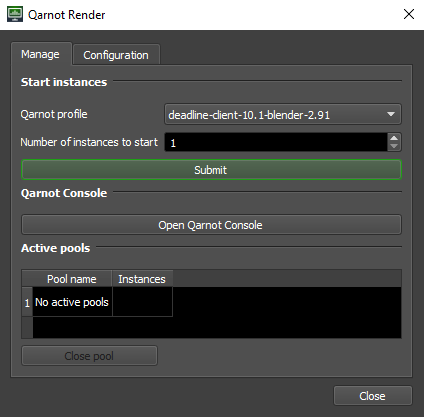
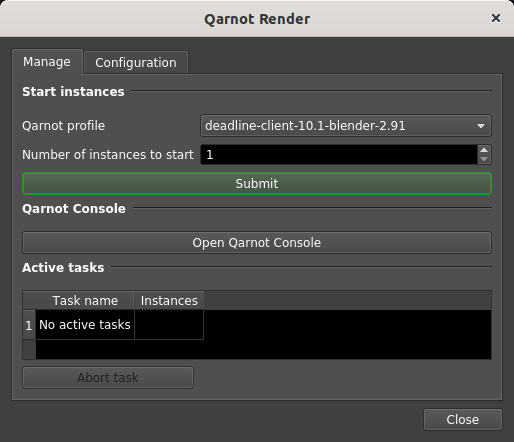
Use tasks instead of pools
This allows to use a static path for the folder used for the job's data
(`/job` by default). Before, the data was present in a subfolder of
`/job` (and its name was changing between pools).

Ref IT-3477

diff --git a/custom/scripts/General/QarnotRender.py b/custom/scripts/General/QarnotRender.py
@@ -93,41 +93,41 @@ def __main__():
     console_button.ValueModified.connect(console_button_pressed)
 
     script_dialog.AddControlToGrid(
-        "PoolsSeparator",
+        "TasksSeparator",
         "SeparatorControl",
-        "Active pools",
+        "Active tasks",
         6,
         0,
         colSpan=2,
     )
 
-    pool_model = PoolModel()
+    task_model = TaskModel()
 
-    pool_view = QtWidgets.QTableView()
-    pool_view.setObjectName("PoolView")
-    pool_view.setModel(pool_model)
+    task_view = QtWidgets.QTableView()
+    task_view.setObjectName("TaskView")
+    task_view.setModel(task_model)
     # hide the UUID column (but the data needs to stay to launch actions against
-    # the selected pools)
-    pool_view.setColumnHidden(2, True)
+    # the selected tasks)
+    task_view.setColumnHidden(2, True)
     # auto adjust column width based on content
-    pool_view.setSizeAdjustPolicy(QtWidgets.QAbstractScrollArea.AdjustToContents)
-    pool_view.resizeColumnsToContents()
+    task_view.setSizeAdjustPolicy(QtWidgets.QAbstractScrollArea.AdjustToContents)
+    task_view.resizeColumnsToContents()
     # automatically resize columns when the model changes
-    pool_model.layoutChanged.connect(pool_view.resizeColumnsToContents)
+    task_model.layoutChanged.connect(task_view.resizeColumnsToContents)
     # select row with one click
-    pool_view.setSelectionBehavior(QtWidgets.QTableView.SelectRows)
-    # automatically enable/disable the pool close button
-    pool_model.layoutChanged.connect(update_pool_close_button)
+    task_view.setSelectionBehavior(QtWidgets.QTableView.SelectRows)
+    # automatically enable/disable the task abort button
+    task_model.layoutChanged.connect(update_task_abort_button)
 
-    grid.addWidget(pool_view, 7, 0, 1, 2)
+    grid.addWidget(task_view, 7, 0, 1, 2)
 
-    pool_close_button = script_dialog.AddControlToGrid(
-        "PoolCloseButton", "ButtonControl", "Close pool", 8, 0, colSpan=1
+    task_abort_button = script_dialog.AddControlToGrid(
+        "TaskAbortButton", "ButtonControl", "Abort task", 8, 0, colSpan=1
     )
-    # disable the close button by default
-    # it will be enabled when the pool table is populated
-    script_dialog.SetEnabled("PoolCloseButton", False)
-    pool_close_button.ValueModified.connect(pool_close_button_pressed)
+    # disable the abort button by default
+    # it will be enabled when the task table is populated
+    script_dialog.SetEnabled("TaskAbortButton", False)
+    task_abort_button.ValueModified.connect(task_abort_button_pressed)
 
     script_dialog.EndGrid()
     script_dialog.EndTabPage()
@@ -195,7 +195,7 @@ def __main__():
     )
 
     refresh_qarnot_profiles_combo()
-    refresh_qarnot_pools()
+    refresh_qarnot_tasks()
 
     script_dialog.ShowDialog(True)
 
@@ -299,40 +299,40 @@ def display_invalid_conf():
     )
 
 
-def refresh_qarnot_pools():
-    # fetch pools in a worker thread
-    worker = Worker(fetch_qarnot_pools)
-    worker.signals.result.connect(update_pool_view)
+def refresh_qarnot_tasks():
+    # fetch tasks in a worker thread
+    worker = Worker(fetch_qarnot_tasks)
+    worker.signals.result.connect(update_task_view)
     QThreadPool.globalInstance().start(worker)
 
 
-def fetch_qarnot_pools():
+def fetch_qarnot_tasks():
 
     # display loading message
-    pool_view = script_dialog.findChild(
+    task_view = script_dialog.findChild(
         QtWidgets.QTableView,
-        "PoolView",
+        "TaskView",
     )
-    pool_model = pool_view.model()
-    pool_model.display_loading_message()
+    task_model = task_view.model()
+    task_model.display_loading_message()
 
-    # fetch active pools
+    # fetch active tasks
     q_render_deadline.refresh_connection()
-    active_pools = q_render_deadline.get_active_pools()
+    active_tasks = q_render_deadline.get_active_tasks()
 
-    return active_pools
+    return active_tasks
 
 
-def update_pool_view(active_pools):
+def update_task_view(active_tasks):
     global script_dialog
 
-    pool_view = script_dialog.findChild(
+    task_view = script_dialog.findChild(
         QtWidgets.QTableView,
-        "PoolView",
+        "TaskView",
     )
-    pool_model = pool_view.model()
+    task_model = task_view.model()
 
-    pool_model.pools = active_pools
+    task_model.tasks = active_tasks
 
 
 def submit_button_pressed(*args):
@@ -343,10 +343,10 @@ def submit_button_pressed(*args):
     instance_number = script_dialog.GetValue("QarnotInstancesNumberBox")
     q_render_deadline.create_instances(profile, instance_number)
     script_dialog.ShowMessageBox(
-        "Pool submitted, open the Qarnot Console for more information",
+        "Task submitted, open the Qarnot Console for more information",
         "Submit confirmation",
     )
-    refresh_qarnot_pools()
+    refresh_qarnot_tasks()
 
 
 def console_button_pressed(*args):
@@ -356,39 +356,39 @@ def console_button_pressed(*args):
     script_dialog.OpenUrl(url)
 
 
-def update_pool_close_button(*args):
+def update_task_abort_button(*args):
     global script_dialog
 
-    pool_view = script_dialog.findChild(
+    task_view = script_dialog.findChild(
         QtWidgets.QTableView,
-        "PoolView",
+        "TaskView",
     )
-    pool_model = pool_view.model()
+    task_model = task_view.model()
 
-    # check pool uuid value of first line
-    pool_uuid = pool_model.data(pool_model.index(0, 2), Qt.DisplayRole)
+    # check task uuid value of first line
+    task_uuid = task_model.data(task_model.index(0, 2), Qt.DisplayRole)
 
-    if pool_uuid:
-        script_dialog.SetEnabled("PoolCloseButton", True)
+    if task_uuid:
+        script_dialog.SetEnabled("TaskAbortButton", True)
     else:
-        script_dialog.SetEnabled("PoolCloseButton", False)
+        script_dialog.SetEnabled("TaskAbortButton", False)
 
 
-def pool_close_button_pressed(*args):
+def task_abort_button_pressed(*args):
     global script_dialog
     global q_render_deadline
 
-    pool_view = script_dialog.findChild(
+    task_view = script_dialog.findChild(
         QtWidgets.QTableView,
-        "PoolView",
+        "TaskView",
     )
-    indexes = pool_view.selectionModel().selectedRows()
+    indexes = task_view.selectionModel().selectedRows()
 
     for index in indexes:
-        pool_uuid = index.child(index.row(), 2).data()
-        q_render_deadline.stop_instances(pool_uuid)
+        task_uuid = index.child(index.row(), 2).data()
+        q_render_deadline.stop_instances(task_uuid)
 
-    refresh_qarnot_pools()
+    refresh_qarnot_tasks()
 
 
 def update_qarnot_account_url(*args):
@@ -486,36 +486,36 @@ class Worker(QRunnable):
             self.signals.finished.emit()  # Done
 
 
-class PoolModel(QtCore.QAbstractTableModel):
-    def __init__(self, pools=None):
+class TaskModel(QtCore.QAbstractTableModel):
+    def __init__(self, tasks=None):
         super(QtCore.QAbstractTableModel, self).__init__()
-        self._pools = pools
+        self._tasks = tasks
         self._data = []
-        self._columns = ["Pool name", "Instances", "UUID"]
+        self._columns = ["Task name", "Instances", "UUID"]
 
         self._set_table_data()
 
     def _set_table_data(self):
-        if self._pools:
-            self._data = [(x.name, x.instancecount, x.uuid) for x in self._pools]
+        if self._tasks:
+            self._data = [(x.name, x.instancecount, x.uuid) for x in self._tasks]
         else:
-            self._data = [["No active pools", None, None]]
+            self._data = [["No active tasks", None, None]]
         self.layoutChanged.emit()
 
     @property
-    def pools(self):
+    def tasks(self):
         """
-        Returns the pools list.
+        Returns the tasks list.
 
         Returns:
-            pools: list of pool objects
+            tasks: list of task objects
         """
-        return self._pools
+        return self._tasks
 
-    @pools.setter
-    def pools(self, value):
-        """Setter for pools"""
-        self._pools = value
+    @tasks.setter
+    def tasks(self, value):
+        """Setter for tasks"""
+        self._tasks = value
         self._set_table_data()
 
     def data(self, index, role):
@@ -552,5 +552,5 @@ class PoolModel(QtCore.QAbstractTableModel):
                 return section + 1
 
     def display_loading_message(self):
-        self._data = [["Loading pools...", None, None]]
+        self._data = [["Loading tasks...", None, None]]
         self.layoutChanged.emit()

diff --git a/qarnot_render_deadline.py b/qarnot_render_deadline.py
@@ -112,34 +112,6 @@ class QarnotRenderDeadline:
         )
         return active_tasks
 
-    def get_active_pools(self):
-        """
-        Get active pools.
-
-        Returns:
-            active_pools: list of pool objects that are currently active
-        """
-
-        active_pools = []
-        self.refresh_connection()
-
-        pools = self.conn.pools(summary=True)
-        excluded_states = ["Closed", "Closing", "PendingDelete", "Failure"]
-
-        for pool in pools:
-            # add only active pools dedicated to deadline
-            logging.debug('Evaluating pool "{}": {}'.format(pool.name, pool.state))
-            if (
-                all(x not in pool.state for x in excluded_states)
-                and self.deadline_prefix in pool.name
-            ):
-                active_pools.append(pool)
-
-        logging.debug(
-            'Active pools: "{}"'.format([(x.name, x.uuid) for x in active_pools])
-        )
-        return active_pools
-
     def create_instances(
         self,
         profile,
@@ -173,14 +145,9 @@ class QarnotRenderDeadline:
             return rand
 
         suffix = random_suffix(r)
-        pool_name = profile + suffix
-        pool = self.conn.create_pool(
-            name=pool_name, profile=profile, instancecount=count
-        )
-        pool.submit()
 
-        task_name = profile + suffix + "-task"
-        task = self.conn.create_task(task_name, pool, count)
+        task_name = profile + suffix
+        task = self.conn.create_task(task_name, profile, count)
         bucketOut = self.conn.create_bucket(self.results_bucket)
         bucketIn = []
         for new_bucket in self.resources_bucket:
@@ -210,28 +177,28 @@ class QarnotRenderDeadline:
 
         return self.started_tasks
 
-    def stop_instances(self, pool_uuid=None):
+    def stop_instances(self, task_uuid=None):
         """
-        Stop instances for all active pools or one specific pool
+        Stop instances for all active tasks or one specific task
 
         Args:
-            pool: optional UUID of a specific pool to close
+            task: optional UUID of a specific task to abort
         """
 
         self.refresh_connection()
 
-        if pool_uuid is None:
-            active_pools = self.get_active_pools()
+        if task_uuid is None:
+            active_tasks = self.get_active_tasks()
 
-            for active_pool in active_pools:
+            for active_task in active_tasks:
                 try:
-                    pool_uuid = self.conn.retrieve_pool(active_pool.uuid)
-                    pool_uuid.close()
+                    task = self.conn.retrieve_task(active_task.uuid)
+                    task.abort()
                 except:
-                    logging.error("Error closing Pool {}".format(active_pool.name))
+                    logging.error("Error aborting Task {}".format(active_task.name))
         else:
             try:
-                pool_uuid = self.conn.retrieve_pool(pool_uuid)
-                pool_uuid.close()
+                task = self.conn.retrieve_task(task_uuid)
+                task.abort()
             except:
-                logging.error("Error closing Pool with UUID {}".format(pool_uuid))
+                logging.error("Error aborting Task with UUID {}".format(task_uuid))

diff --git a/README.md b/README.md
@@ -15,8 +15,8 @@ The Qarnot integration for [Deadline](https://www.awsthinkbox.com/deadline), bas
       client_token="YOUR_API_TOKEN", cluster_url="https://api.qarnot.com"
   )
   q_render_deadline.create_instances("deadline-client-10.1-blender-2.91", 2)
-  # Deadline workers will appear in Deadline Monitor once the pool and task is
-  # fully dispatched. You can then launch Deadline jobs against those machines
+  # Deadline workers will appear in Deadline Monitor once the task is fully
+  # dispatched. You can then launch Deadline jobs against those machines
   # and, once you're done, shut the workers down with:
   q_render_deadline.stop_instances()
   ```
